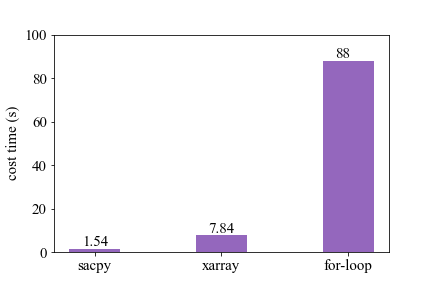
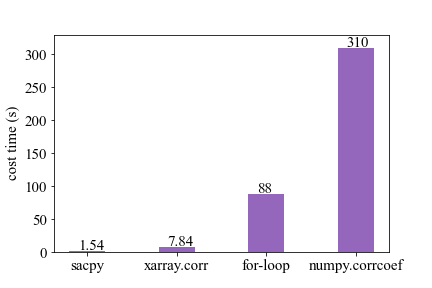
0.0.7

diff --git a/README.md b/README.md
@@ -6,6 +6,8 @@ Author : Zilu Meng
 
 e-mail : mzll1202@163.com
 
+version: 0.0.6
+
 ## Why choose Sacpy?
 
 ### Quick!
@@ -91,11 +93,11 @@ Result(For a detailed drawing process, see **example**):
 
 ## Speed 
 
-As a comparison, we use the function **corr**  function in the xarray library and **for-loop**. The time required to calculate the correlation coefficient between SSTA and nino3.4 for 50 times is shown in the figure below.
+As a comparison, we use the  **corr**  function in the xarray library, **corrcoef** function in numpy library and **for-loop**. The time required to calculate the correlation coefficient between SSTA and nino3.4 for 50 times is shown in the figure below.
 
-It can be seen that we are five times faster than xarray and 60 times faster than forloop.
+It can be seen that we are five times faster than xarray.corr, 60 times faster than forloop and 200 times faster than numpy.corrcoef.
 
-Moreover, xarray will not return the **p value**. We can simply check the pvalue attribute of sacpy to get the p value.
+Moreover, xarray and numpy can not return the **p value**. We can simply check the pvalue attribute of sacpy to get the p value.
 
 ![](https://raw.githubusercontent.com/ZiluM/sacpy/master/pic/speed_test_00.png)
 

diff --git a/CHANGELOG.md b/CHANGELOG.md
@@ -1,4 +1,14 @@
-# version 0.0.1
+# Change Log
+
+## version 0.0.1
 
 Nothing!
+
+## version 0.0.5
+
+First official edition
+
+## version 0.0.6
+
+Updated the speed test and changed small errors
 
